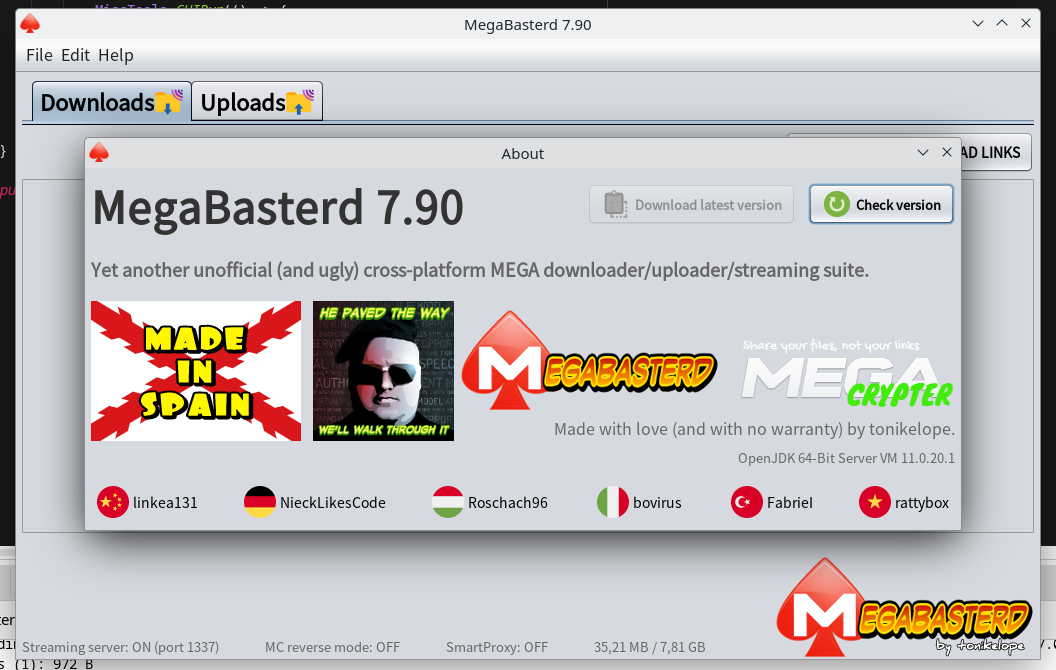
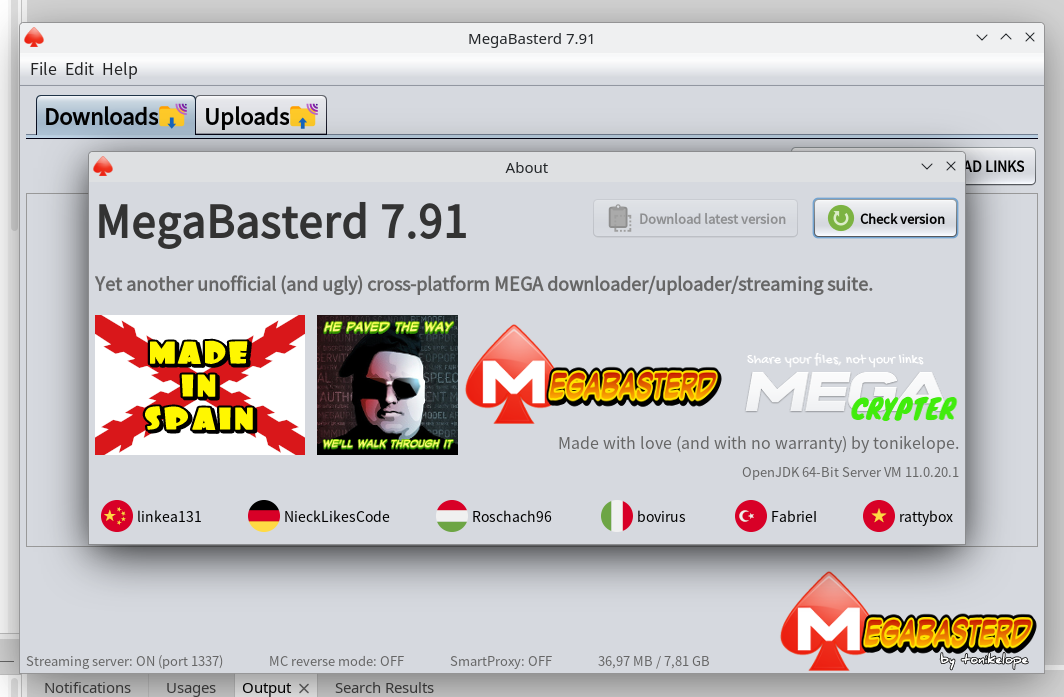
7.91 -> Fix 7.89 chunkdownloader smartproxy bug

Changed region(s): [[0.0, 0.0, 1.0, 1.0], [0.4688, 0.4478, 0.5, 0.5075]]

diff --git a/src/main/java/com/tonikelope/megabasterd/ChunkDownloader.java b/src/main/java/com/tonikelope/megabasterd/ChunkDownloader.java
@@ -165,7 +165,7 @@ public class ChunkDownloader implements Runnable, SecureSingleThreadNotifiable {
                     secureWait();
                 }
 
-                if (http_error == 509 && _509_timestamp == -1) {
+                if (http_error == 509 && (_509_timestamp == -1 || _509_timestamp + SMART_PROXY_RECHECK_509_TIME * 1000 < System.currentTimeMillis())) {
                     _509_timestamp = System.currentTimeMillis();
                 }
 

diff --git a/src/main/java/com/tonikelope/megabasterd/MainPanel.java b/src/main/java/com/tonikelope/megabasterd/MainPanel.java
@@ -69,7 +69,7 @@ import javax.swing.UIManager;
  */
 public final class MainPanel {
 
-    public static final String VERSION = "7.90";
+    public static final String VERSION = "7.91";
     public static final boolean FORCE_SMART_PROXY = false; //TRUE FOR DEBUGING SMART PROXY
     public static final int THROTTLE_SLICE_SIZE = 16 * 1024;
     public static final int DEFAULT_BYTE_BUFFER_SIZE = 16 * 1024;
